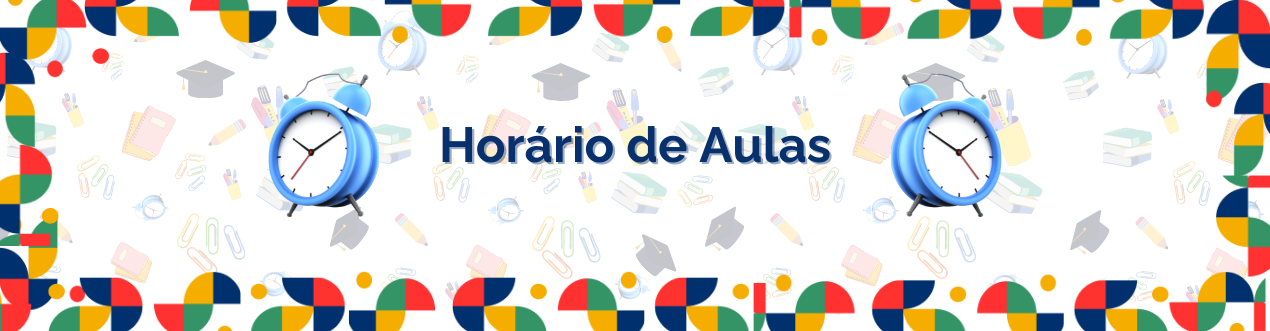
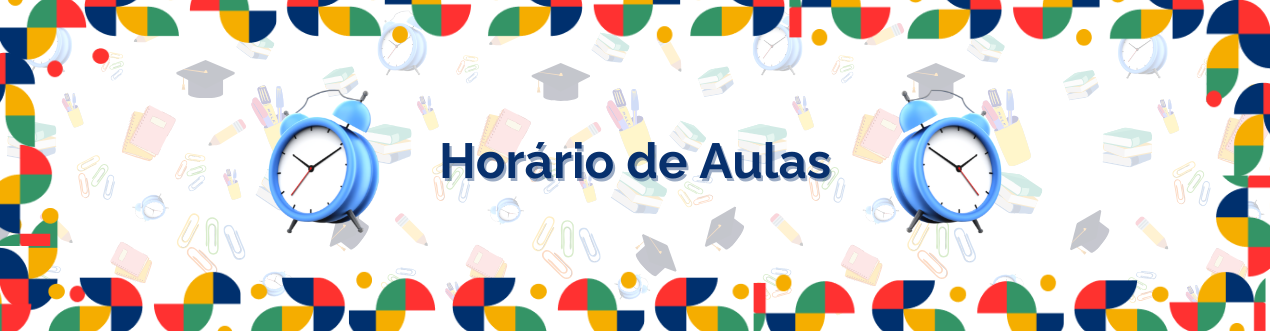
:lipstick: style: adjust header to class schedule page

Changed region(s): [[0.3378, 0.2115, 0.7984, 0.6949], [0.1843, 0.2115, 0.3071, 0.6949]]

diff --git a/css/style.css b/css/style.css
@@ -2130,10 +2130,14 @@
 
 /* header Start */
 .class-schedule-img {
+    position: relative;
+    overflow: hidden;
     background: linear-gradient(rgba(1, 95, 201, 0.9), rgba(0, 0, 0, 0.2)), url(../img/class-schedule-page-background.png);
+    background-position: center center;
     background-repeat: no-repeat;
     background-size: cover;
-    background-position: center;
+    padding: 60px 0 60px 0;
+    transition: 0.5s;
 }
 
 .class-schedule-img .breadcrumb {
